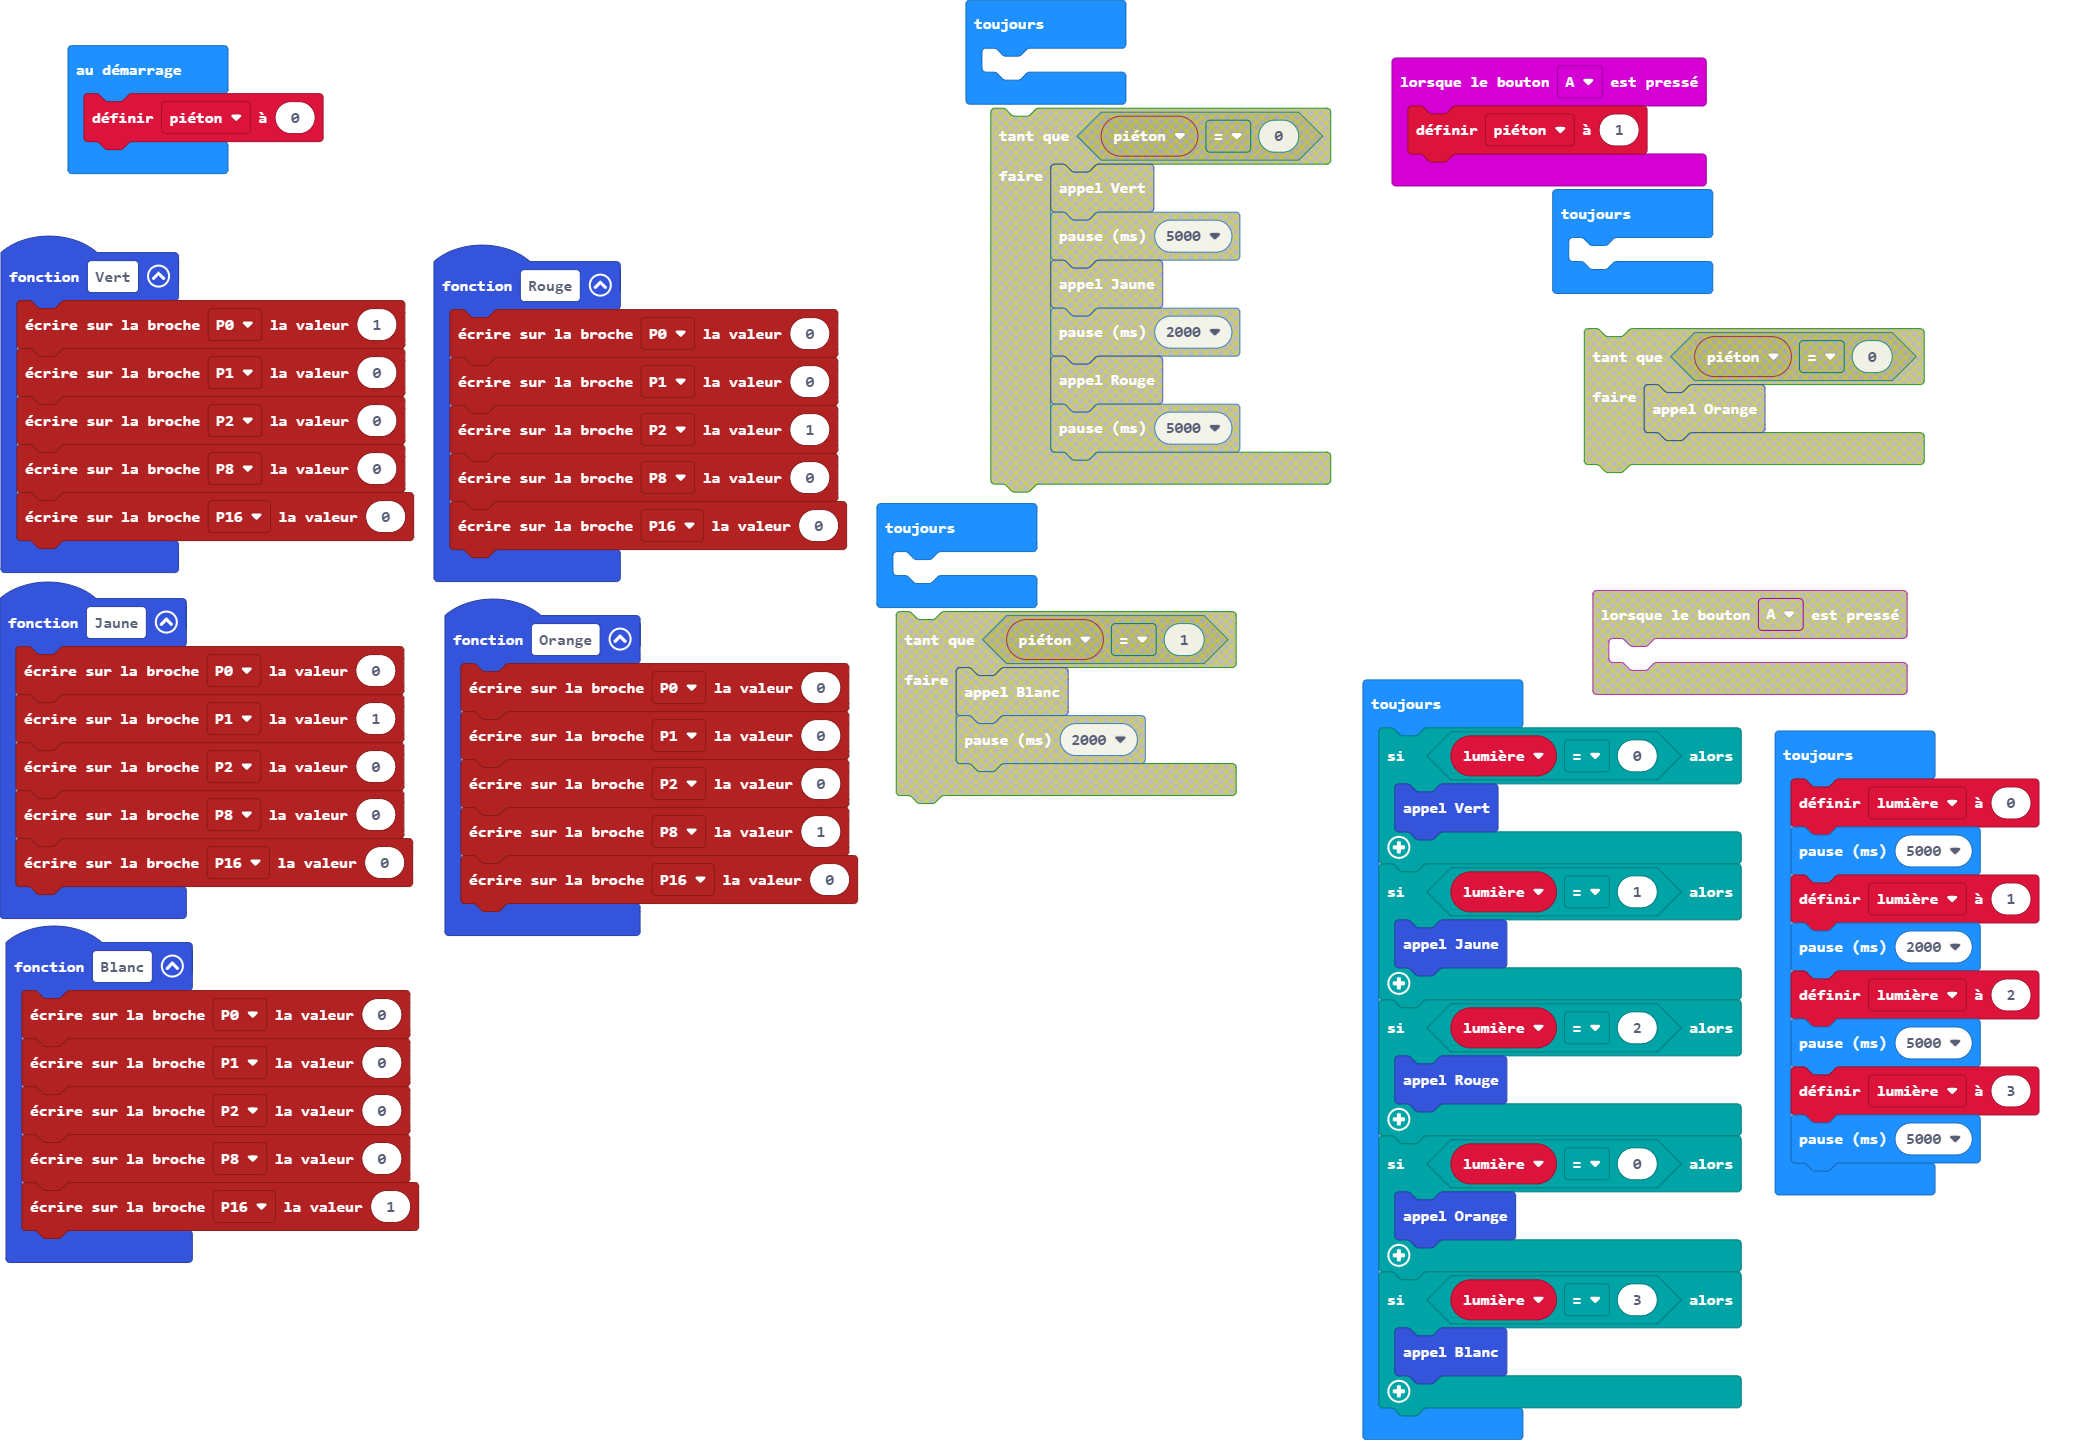
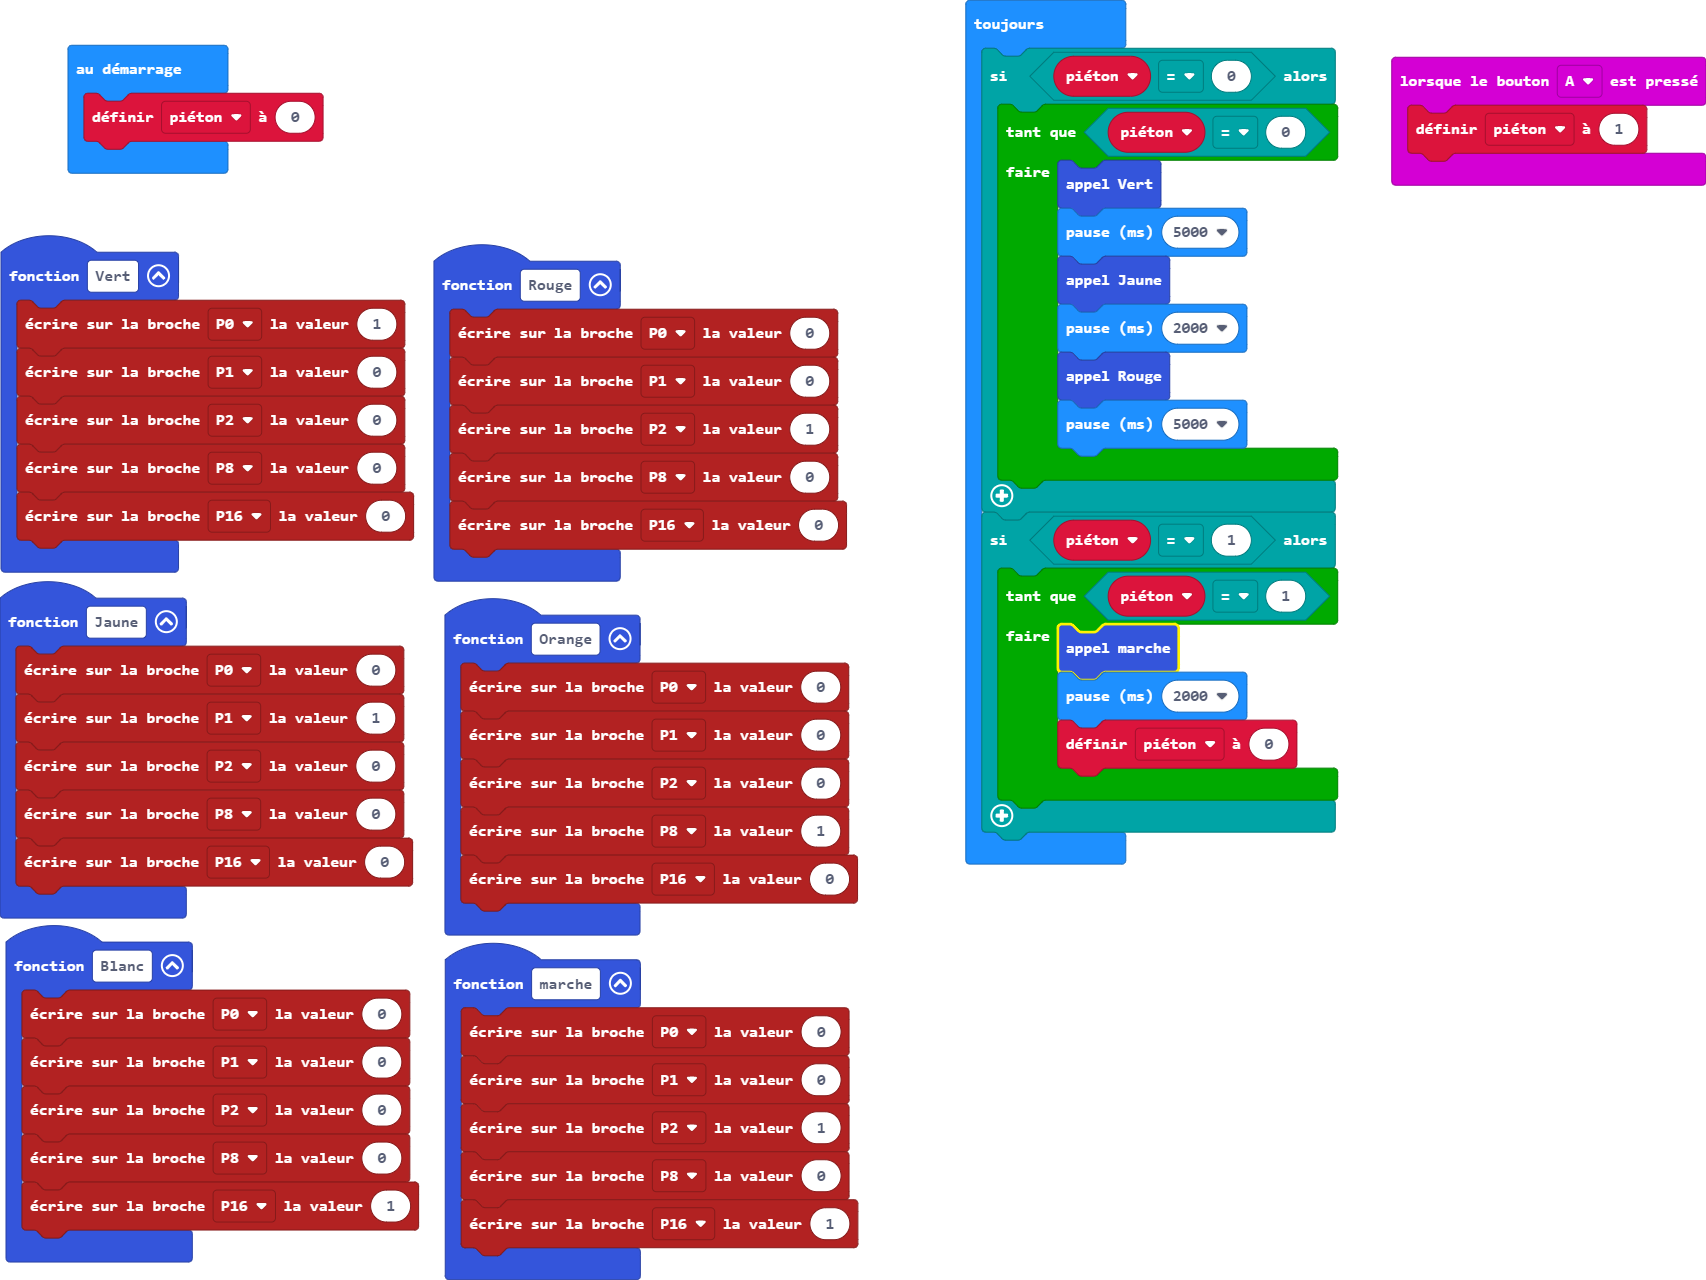
Mise à jour main.blocks, main.ts

diff --git a/main.ts b/main.ts
@@ -22,6 +22,13 @@ function Orange () {
 input.onButtonPressed(Button.A, function () {
     piéton = 1
 })
+function marche () {
+    pins.digitalWritePin(DigitalPin.P0, 0)
+    pins.digitalWritePin(DigitalPin.P1, 0)
+    pins.digitalWritePin(DigitalPin.P2, 1)
+    pins.digitalWritePin(DigitalPin.P8, 0)
+    pins.digitalWritePin(DigitalPin.P16, 1)
+}
 function Vert () {
     pins.digitalWritePin(DigitalPin.P0, 1)
     pins.digitalWritePin(DigitalPin.P1, 0)
@@ -36,42 +43,24 @@ function Blanc () {
     pins.digitalWritePin(DigitalPin.P8, 0)
     pins.digitalWritePin(DigitalPin.P16, 1)
 }
-let lumière = 0
 let piéton = 0
 piéton = 0
 basic.forever(function () {
-	
-})
-basic.forever(function () {
-	
-})
-basic.forever(function () {
-	
-})
-basic.forever(function () {
-    if (lumière == 0) {
-        Vert()
+    if (piéton == 0) {
+        while (piéton == 0) {
+            Vert()
+            basic.pause(5000)
+            Jaune()
+            basic.pause(2000)
+            Rouge()
+            basic.pause(5000)
+        }
     }
-    if (lumière == 1) {
-        Jaune()
+    if (piéton == 1) {
+        while (piéton == 1) {
+            marche()
+            basic.pause(2000)
+            piéton = 0
+        }
     }
-    if (lumière == 2) {
-        Rouge()
-    }
-    if (lumière == 0) {
-        Orange()
-    }
-    if (lumière == 3) {
-        Blanc()
-    }
-})
-basic.forever(function () {
-    lumière = 0
-    basic.pause(5000)
-    lumière = 1
-    basic.pause(2000)
-    lumière = 2
-    basic.pause(5000)
-    lumière = 3
-    basic.pause(5000)
 })
